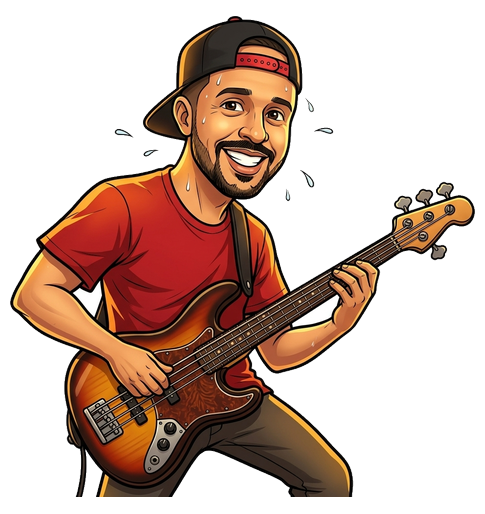
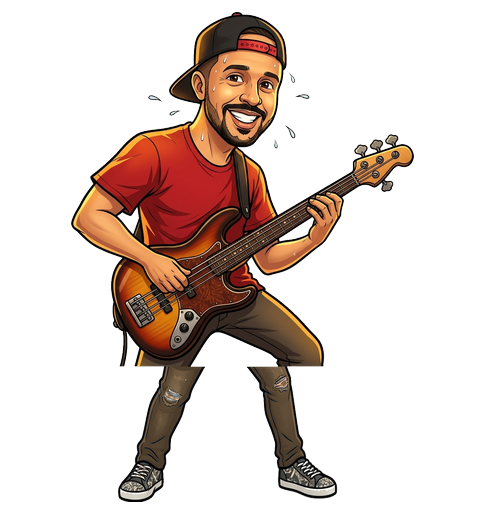
feat(caricatures): Matheus com violao tigrado e Nei de corpo inteiro no individual e no palco completo

diff --git a/site-retorica-main/sw.js b/site-retorica-main/sw.js
@@ -1,4 +1,4 @@
-const CACHE_NAME = 'retorica-v29';
+const CACHE_NAME = 'retorica-v30';
 const ASSETS = [
   './index.html',
   './regras.html',

diff --git a/sw.js b/sw.js
@@ -1,4 +1,4 @@
-const CACHE_NAME = 'retorica-v29';
+const CACHE_NAME = 'retorica-v30';
 const ASSETS = [
   './index.html',
   './regras.html',
